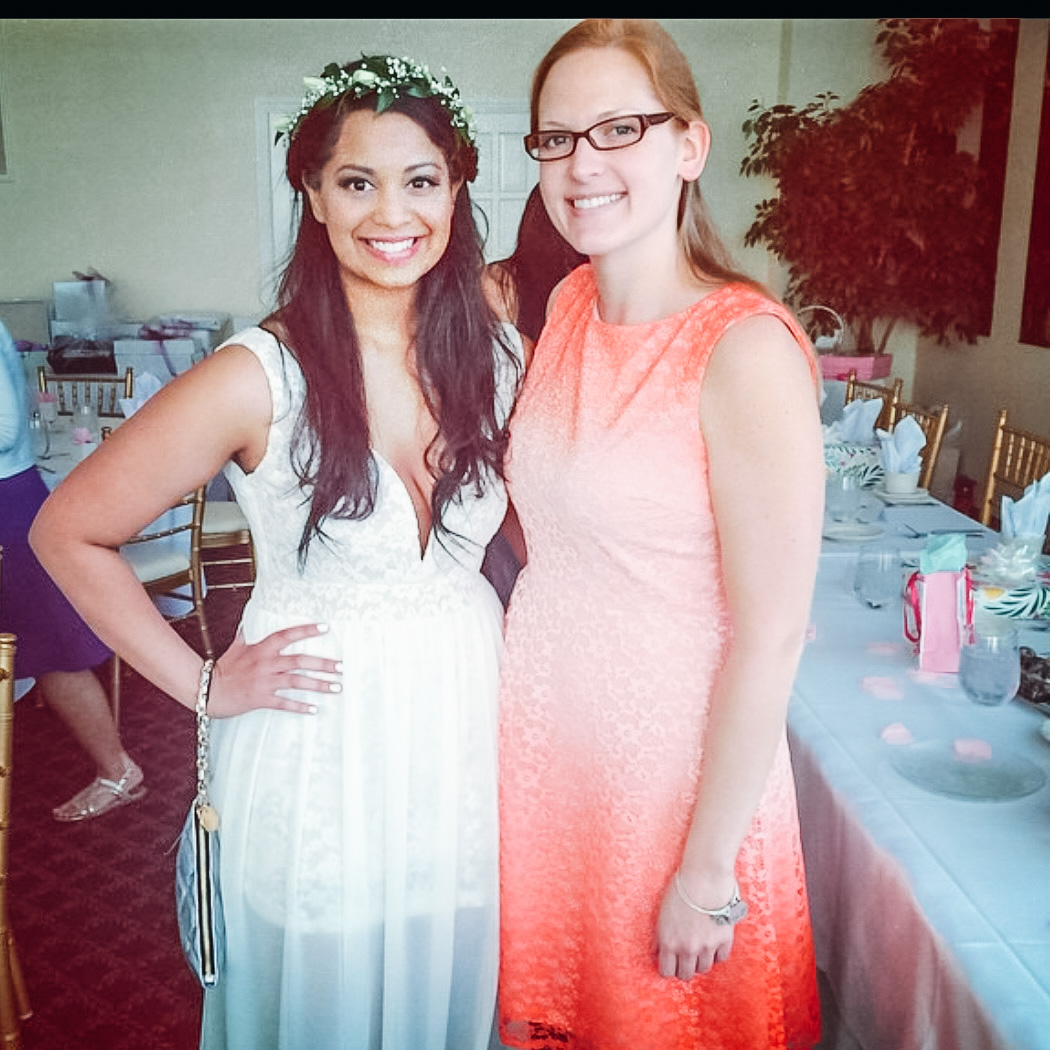
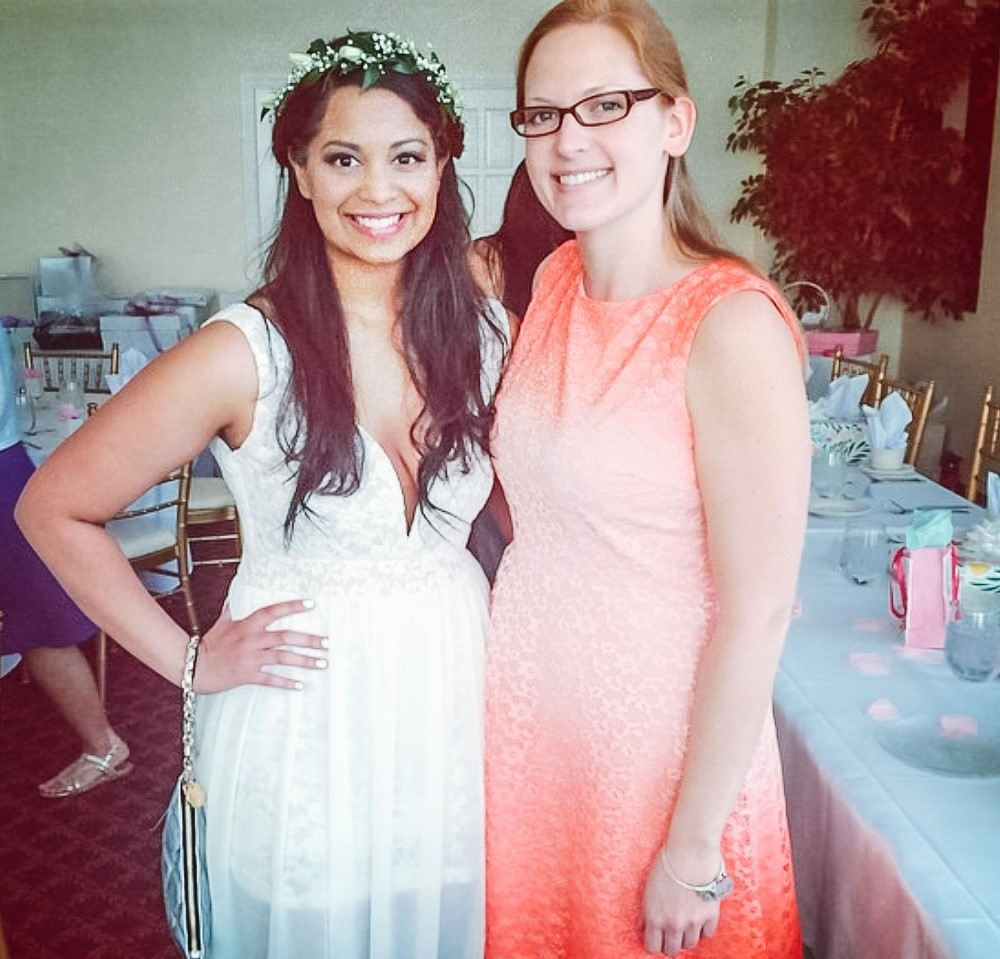
added nav for blogs fixed margin formatting for packagages** -UPDATED FOOTER for GITHUB, changed words in About me -- trimmed bloomingFriendship1.jpeg -- ADDED Google analytics tag

diff --git a/pages/blogs/bloomingFriendship.php b/pages/blogs/bloomingFriendship.php
@@ -55,14 +55,14 @@
         <div>
             <p>
                 In addition to being one of my best friends for nearly a decade, Kristina and I have seen each other through it all. The latest addition to our friendship is our common desire to follow our hearts in opening up our
-                respective small businesses. Kristina owns The Blooming Flour Bakery, and is my family's go to for custom cookies, cakes and cupcakes.
+                respective small businesses. Kristina owns The Blooming Flour bakery, and is my family's go to for custom cookies, cakes and cupcakes.
             </p>
             <p>
-                She's done special event confectionaries from pretty much every milestone in my life from my bridal and baby showers to my wedding and kids' birthdays. It only made sense that her artistry and baked goods would
-                make it's way to Big Little Bashes' Preferred Partners list.
+                She's done special event confectionaries for pretty much every milestone in my life from my bridal and baby showers to my wedding and kids' birthdays. It only made sense that her artistry and baked goods would
+                make their way to Big Little Bashes' Preferred Partners list.
             </p>
             <p>
-                On the day of our collab shoot for the kids' Litera-Tea party, as an Event Curator (and technically client) I couldn't be more grateful to work with a baker who truly buys into your vision. She was able to decorate
+                On the day of our collab shoot for the kids' Litera-Tea party, as an Event Curator (and technically client) I couldn't be more grateful to work with a baker who truly buys into my vision. She was able to decorate
                 the Spring Solstice cookies in a way that complimented the event design palette. They were absolutely delicious and I had a hard time not putting my iPhone camera down to devour them myself. During our concept work
                 phase, she presented many ideas and was always keen and open to feedback.
             </p>
@@ -72,7 +72,7 @@
             <p>
                 I know a lot of professionals don't recommend mixing business with pleasure, but working with Kristina has and (I know) will always continue to be a positive and rewarding experience for me. We truly get each
                 other, and that makes both our jobs easier. She's always been someone who puts other's before herself and pleases everyone, and I'm glad that she finally decided to prioritize her own dreams of opening her bakery
-                and put herself out there. She's certainly inspired me to do the same for myself. The Litera-tea party was the event that has now planted the seeds to a blooming friendship and future project collaborations!
+                and putting herself out there. She's certainly inspired me to do the same for myself. The Litera-tea party was the event that has now planted the seeds to a blooming friendship and future project collaborations!
             </p>
             <p>
                 While you may all see her as this fancy, awesome baker on her socials, she will always be that girl who befriended me on my first day in a big company, making me feel warm, welcome and always well-fed. Love you, my

diff --git a/pages/packages.php b/pages/packages.php
@@ -67,7 +67,7 @@
                 <li>Vendor recommendations & bookings: You'll receive a list of the vendors I recommend as well as help with contacting and booking them</li>
                 <li>Payment management via a structured payment plan</li>
                 <li>Create a Mood Board to capture your vision and expectations </li>
-                <li>Attend all meetings with other vendors/services providers with you or your behalf</li>
+                <li>Attend all meetings with other vendors/services providers with you or on your behalf</li>
                 <li>Detailed day-of timeline management and execution</li>
                 <li>Rehearsal coordination. This includes booking and organizing the rehearsal</li>
                 <li>Day of coordination with additional on-site assistant (if needed) to ensure everything runs smoothly</li>
@@ -102,9 +102,9 @@
         </div>
         <div class="card-body">
             <img class="card-img-top" src="/assets/img/packages/setTable.jpeg">
-            <h3>Customized styled shoots - limted only by our combined imagination!</h3>
+            <h3>Customized events - limted only by our combined imagination!</h3>
             <ul class="packageBullet">
-                <li>Customized suite of services on your special event or styled shoot needs</li>
+                <li>Personalized suite of services for your special event or styled shoot needs</li>
             </ul>
         </div>
     </div>

diff --git a/pages/blog.php b/pages/blog.php
@@ -16,7 +16,6 @@
     <div style="margin-top:10rem;"></div>
 
 
-
     <div class="container" style="padding:0;">
         <section class="text-center">
             <h1 class="mb-3">Latest posts </h1>
